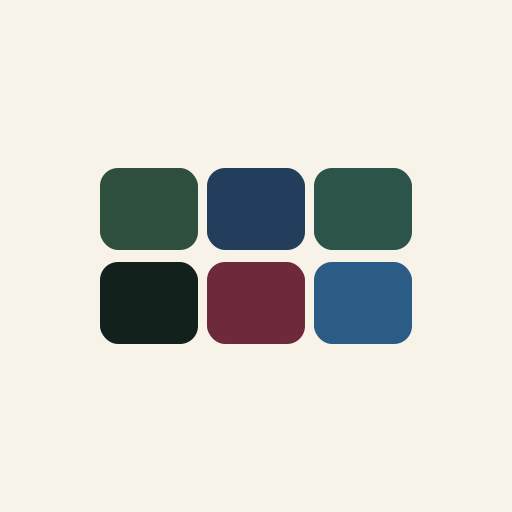
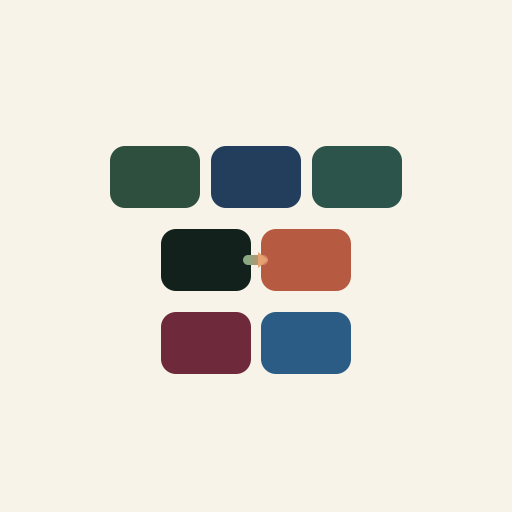
Mibaso-Symbol fuer sieben Apps aktualisieren

Changed region(s): [[0.1875, 0.2812, 0.8125, 0.75]]

diff --git a/index.html b/index.html
@@ -6,10 +6,10 @@
 <title>Mibaso — Meine digitale Naturwerkstatt</title>
 <meta name="description" content="Alle Mibaso-Apps auf einen Blick: Flora, Fauna, Bio, Große Zeitreise, Historia, Kochen und Media.">
 <link rel="canonical" href="https://mibaso.de/">
-<link rel="manifest" href="manifest.webmanifest">
-<link rel="icon" href="assets/favicon-32.png" sizes="32x32">
-<link rel="icon" href="assets/icon.svg" type="image/svg+xml">
-<link rel="apple-touch-icon" href="assets/apple-touch-icon.png">
+<link rel="manifest" href="manifest.webmanifest?v=18">
+<link rel="icon" href="assets/favicon-32.png?v=2" sizes="32x32">
+<link rel="icon" href="assets/icon.svg?v=2" type="image/svg+xml">
+<link rel="apple-touch-icon" href="assets/apple-touch-icon.png?v=2">
 <meta name="theme-color" content="#2F4F3E">
 <meta name="apple-mobile-web-app-capable" content="yes">
 <meta name="apple-mobile-web-app-status-bar-style" content="black-translucent">

diff --git a/sw.js b/sw.js
@@ -1,6 +1,6 @@
 /* Mibaso-Start – Service Worker, network-first (immer aktuell), offline aus dem Cache. */
-const VERSION = 'start-shell-v17';
-const KERN = ['./', './index.html', './ueber/', './impressum/', './manifest.webmanifest', './assets/icon.svg', './assets/icon-192.png'];
+const VERSION = 'start-shell-v18';
+const KERN = ['./', './index.html', './ueber/', './impressum/', './manifest.webmanifest?v=18', './assets/icon.svg?v=2', './assets/icon-192.png?v=2'];
 
 self.addEventListener('install', e => {
   e.waitUntil(caches.open(VERSION).then(c => c.addAll(KERN)).then(() => self.skipWaiting()));
